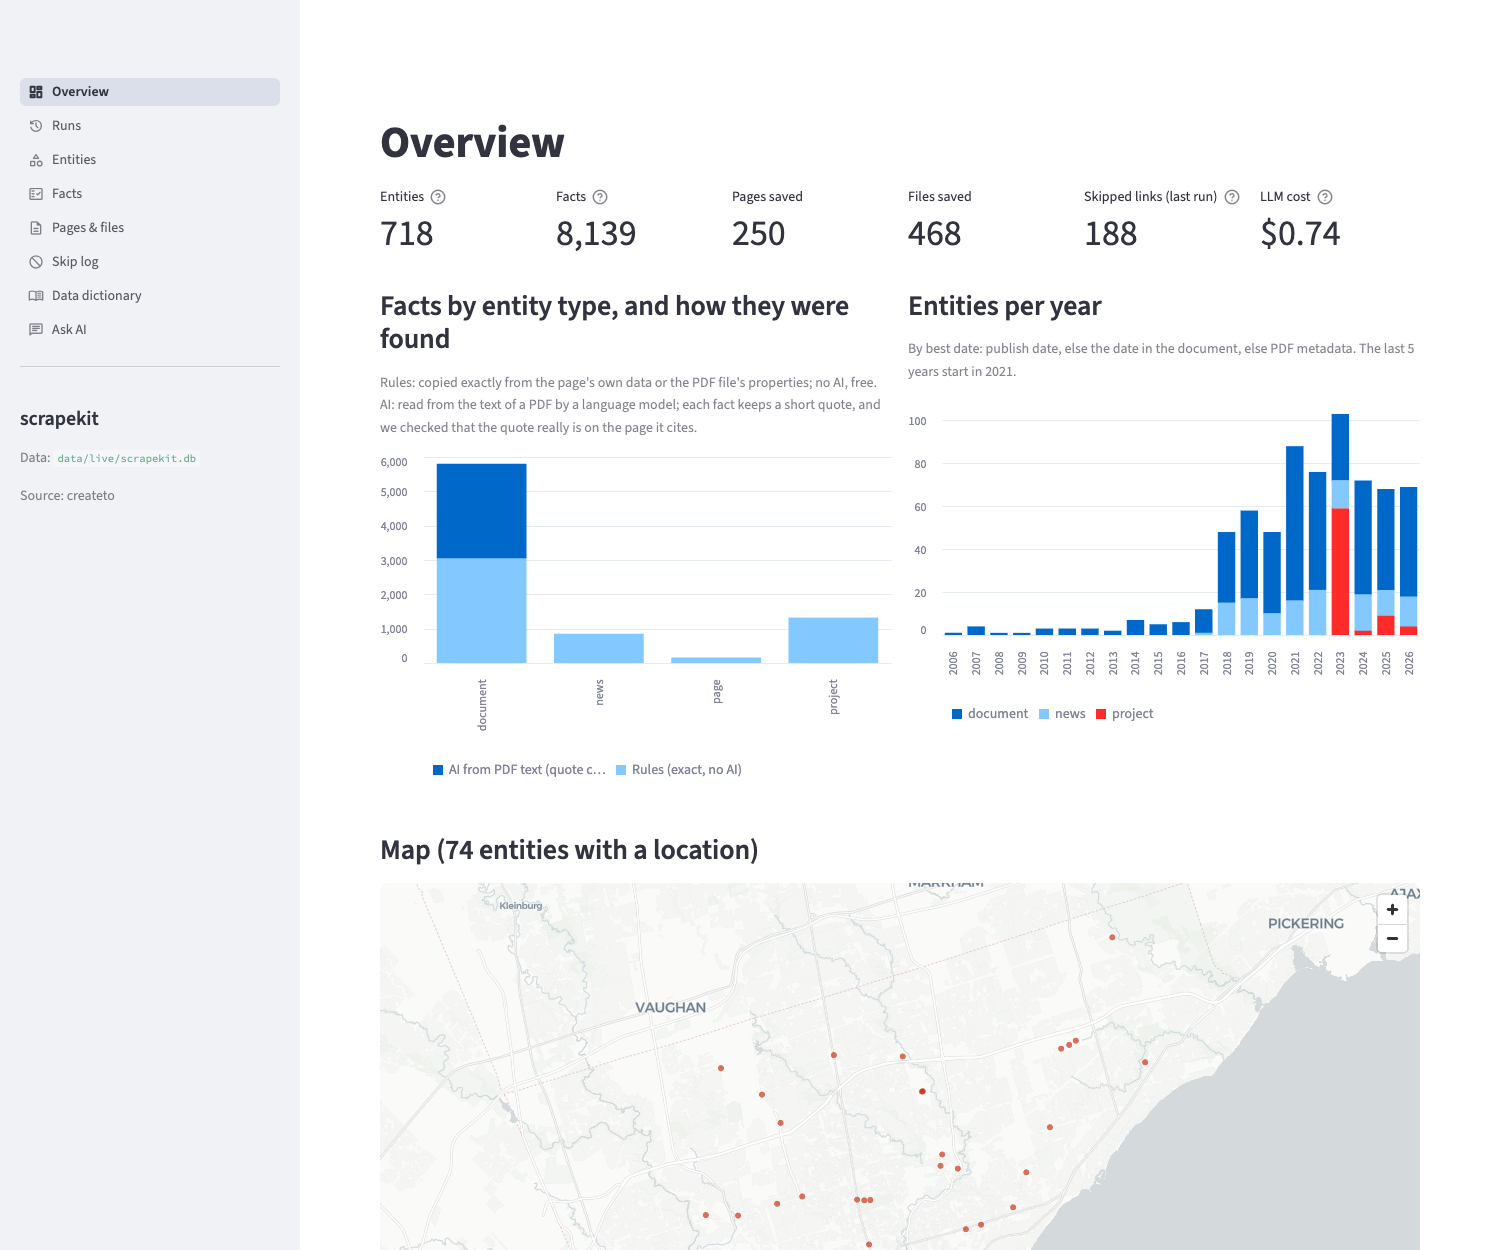
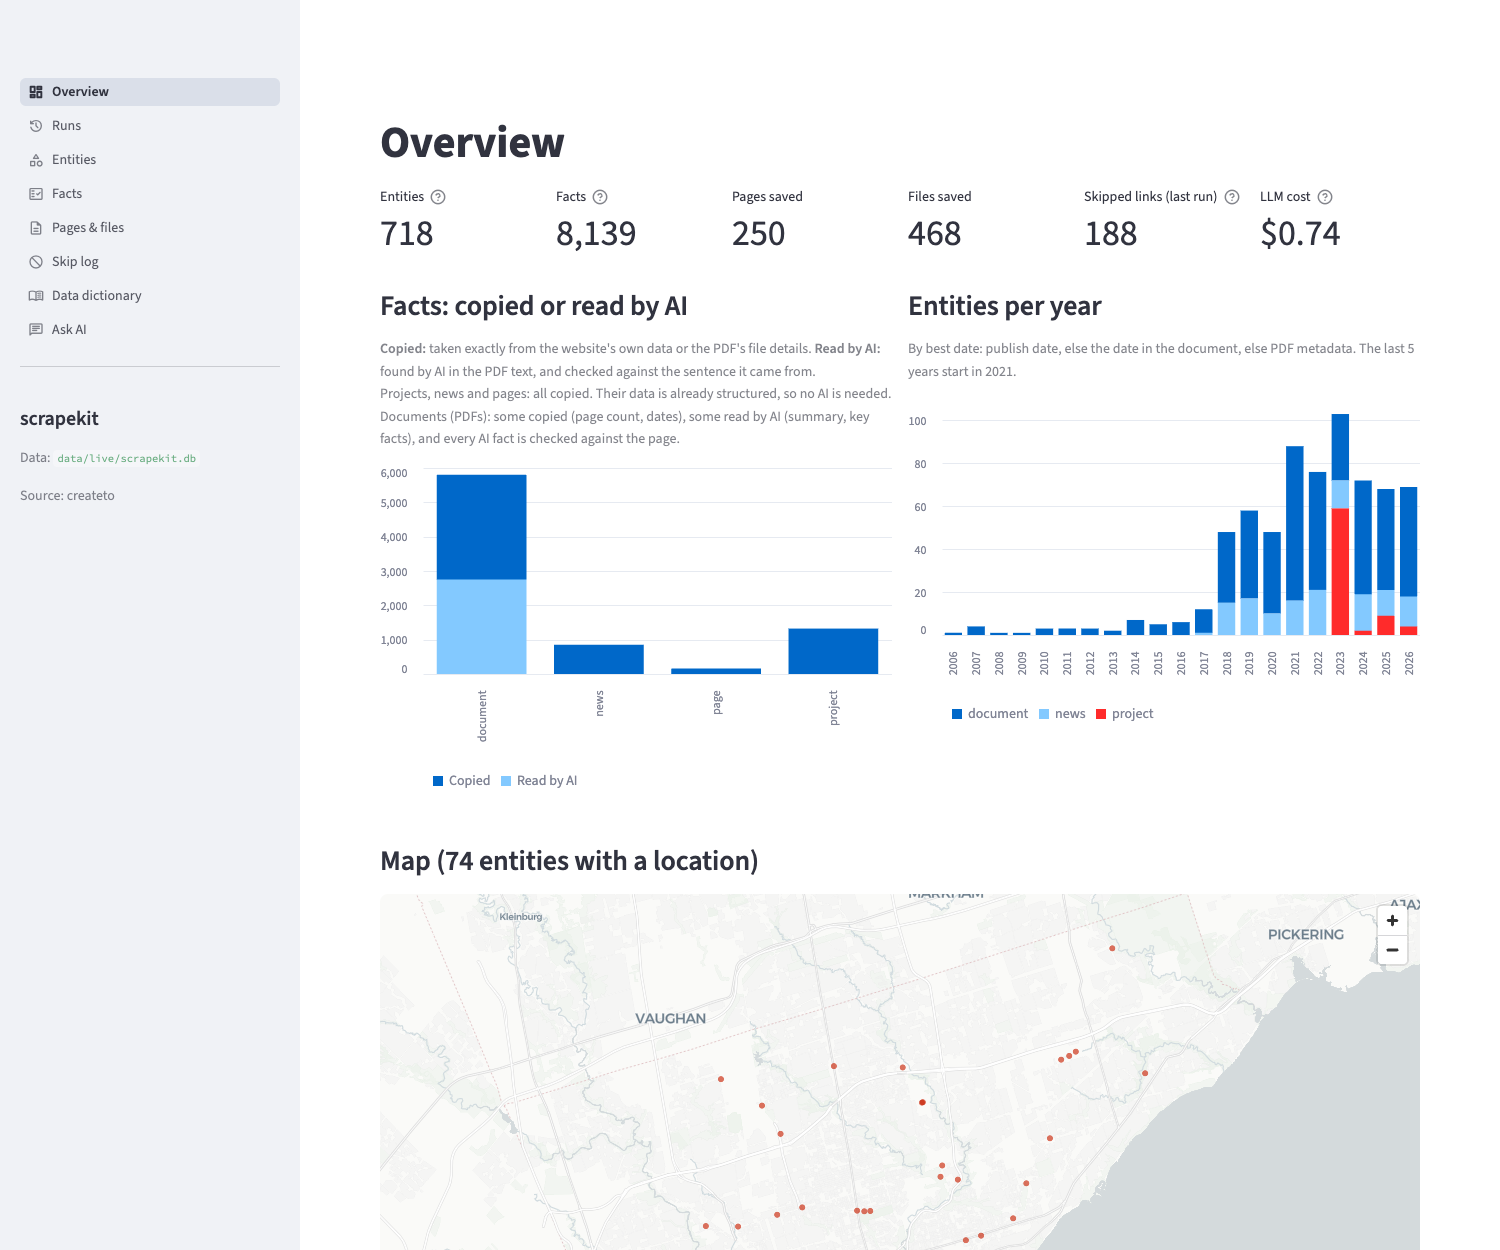
Data browser: say 'Copied' or 'Read by AI'
Short labels for how a fact was found, and one plain caption that
explains them: projects, news and pages are copied from structured
data; PDFs are partly copied and partly read by AI, with every AI fact
checked against its page.

diff --git a/src/scrapekit/ui/common.py b/src/scrapekit/ui/common.py
@@ -13,7 +13,14 @@ from . import queries as q
 
 DB_ENV = "SCRAPEKIT_UI_DB"
 # How a fact was found, in plain words (the database stores "parse" or "llm").
-METHOD_LABELS = {"parse": "Rules (exact, no AI)", "llm": "AI from PDF text (quote checked)"}
+METHOD_LABELS = {"parse": "Copied", "llm": "Read by AI"}
+METHOD_EXPLAINED = (
+    "**Copied:** taken exactly from the website's own data or the PDF's file details. "
+    "**Read by AI:** found by AI in the PDF text, and checked against the sentence it came from.  \n"
+    "Projects, news and pages: all copied. Their data is already structured, so no AI is needed. "
+    "Documents (PDFs): some copied (page count, dates), some read by AI (summary, key facts), "
+    "and every AI fact is checked against the page."
+)
 MAX_INLINE_PDF_BYTES = 15_000_000  # bigger PDFs are slow to embed in the browser; offer download only
 
 

diff --git a/tests/test_ui.py b/tests/test_ui.py
@@ -237,7 +237,7 @@ def test_facts_filter_by_method(db):
     at = AppTest.from_file(str(UI / "views" / "facts.py"), default_timeout=30).run()
     at.selectbox[2].set_value("llm").run()
     assert not at.exception
-    assert set(at.dataframe[0].value["method"]) == {"AI from PDF text (quote checked)"}
+    assert set(at.dataframe[0].value["method"]) == {"Read by AI"}
 
 
 def test_no_streamlit_pages_folder():
@@ -354,6 +354,6 @@ def test_app_shows_one_database_without_a_picker(db):
 def test_method_shown_in_plain_words():
     from scrapekit.ui.common import _readable
 
-    assert _readable({"method": "parse"})["method"] == "Rules (exact, no AI)"
-    assert _readable({"method": "llm"})["method"] == "AI from PDF text (quote checked)"
+    assert _readable({"method": "parse"})["method"] == "Copied"
+    assert _readable({"method": "llm"})["method"] == "Read by AI"
 

diff --git a/src/scrapekit/ui/views/overview.py b/src/scrapekit/ui/views/overview.py
@@ -37,10 +37,8 @@ def bars(rows: list[dict], x: str, y: str = "n", color: str | None = None, horiz
 
 left, right = st.columns(2)
 with left:
-    st.subheader("Facts by entity type, and how they were found")
-    st.caption("Rules: copied exactly from the page's own data or the PDF file's properties; no AI, free. "
-               "AI: read from the text of a PDF by a language model; each fact keeps a short quote, and we "
-               "checked that the quote really is on the page it cites.")
+    st.subheader("Facts: copied or read by AI")
+    st.caption(common.METHOD_EXPLAINED)
     bars([{**r, "method": common.METHOD_LABELS.get(r["method"], r["method"])}
           for r in q.facts_by_type_method(conn, source)], "entity_type", color="method")
 with right:

diff --git a/src/scrapekit/ui/views/dictionary.py b/src/scrapekit/ui/views/dictionary.py
@@ -11,9 +11,8 @@ st.title("Data dictionary")
 conn, source = common.require_data()
 docs = field_docs(SOURCES.get(source))
 st.caption("Each fact is one field of one thing (a project, news item, document or page). "
-           "How it was found: Rules = copied exactly from the page's own data or the PDF file's properties (no AI). "
-           "AI = read from the PDF's text by a language model, with a quote checked on the cited page. "
            "Coverage = share of things of that type that have the field.")
+st.caption(common.METHOD_EXPLAINED)
 
 stats = q.field_stats(conn, source)
 for kind in sorted({s["entity_type"] for s in stats}):
